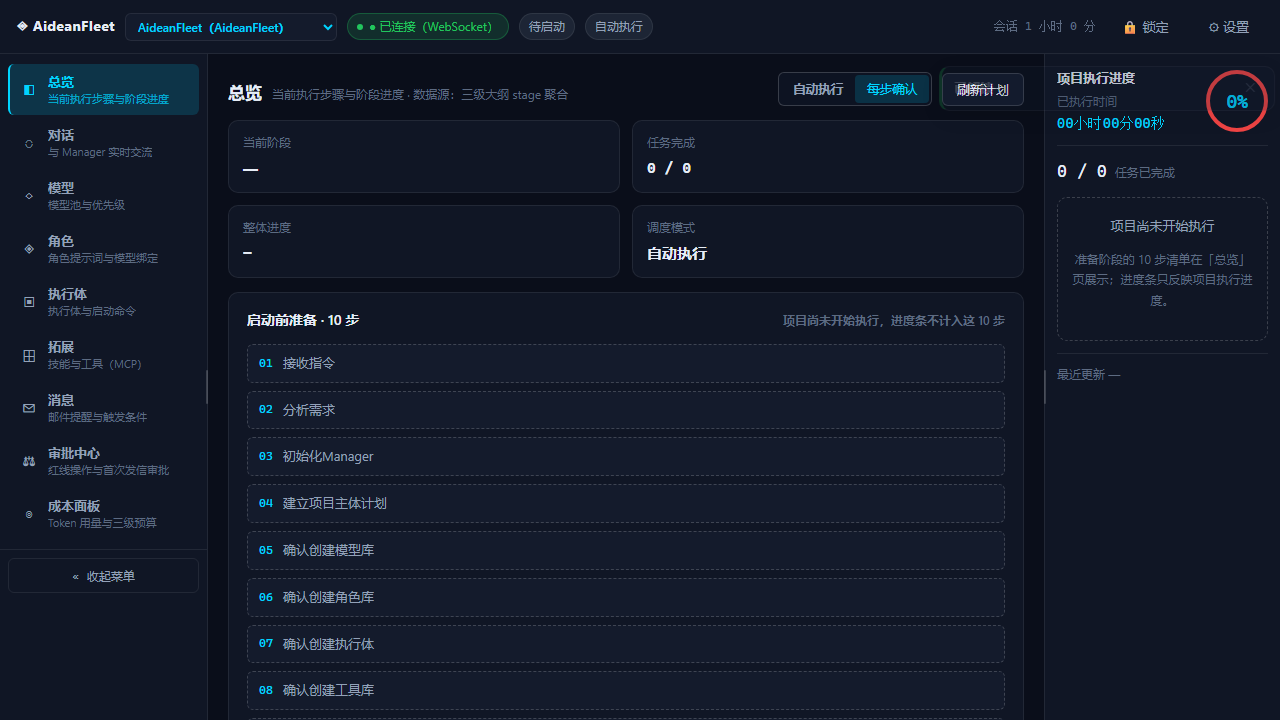
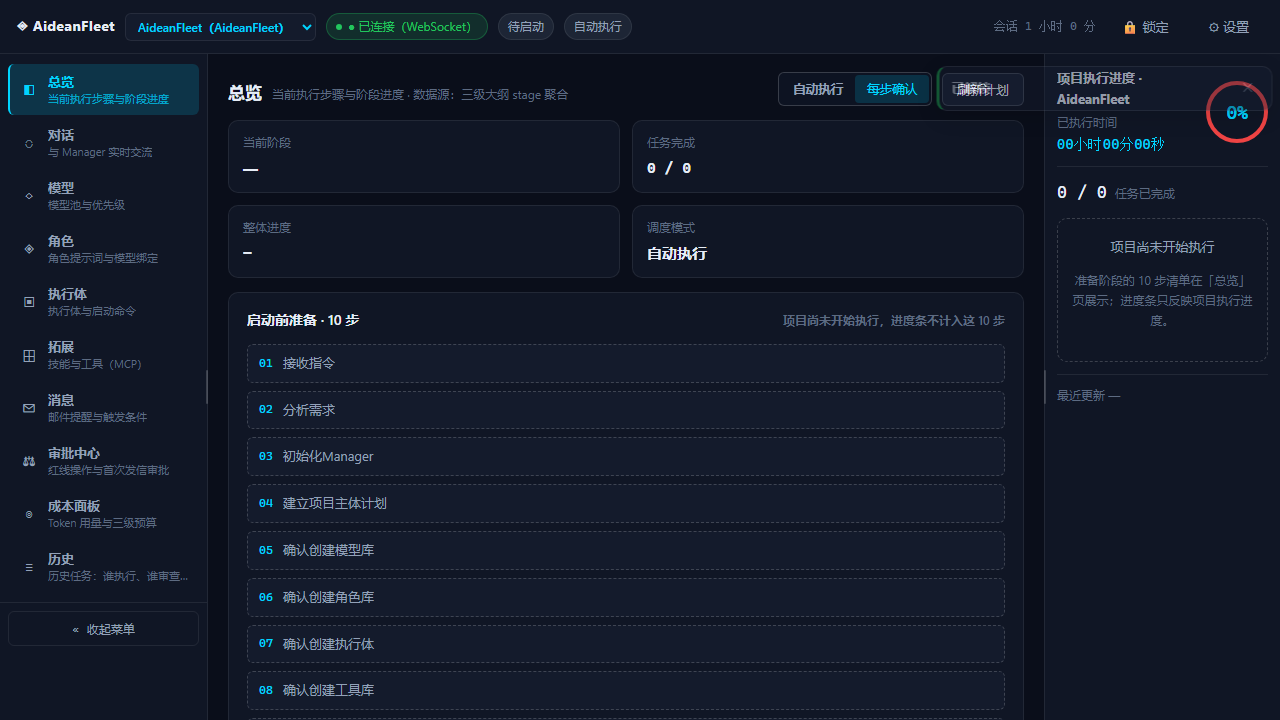
[test] e2e 基线：侧栏历史页计数 + 断网增量补拉用例修复（UI-03R）

diff --git a/tests-e2e/lib/helpers.ts b/tests-e2e/lib/helpers.ts
@@ -35,17 +35,20 @@ export const CORE_PAGES = [
   { path: '/notifications', title: '消息' },
 ] as const
 
-/** UI-03R 追加的三个二级入口（追加在 7 项之后，不参与冻结顺序） */
+/** UI-03R 追加的治理页（审批中心 / 成本面板，带数据源标注） */
 export const EXTRA_PAGES = [
   { path: '/approvals', title: '审批中心' },
   { path: '/cost', title: '成本面板' },
 ] as const
 
+/** 历史页：独立一级页（无治理数据源标注，走历史任务 API），仅参与侧栏顺序 */
+export const HISTORY_PAGE = { path: '/history', title: '历史' } as const
+
 /** 七页回归使用的冻结清单（保持兼容旧断言） */
 export const PAGES = CORE_PAGES
 
 /** 侧栏完整顺序 = 冻结 7 项 + 追加项 */
-export const ALL_PAGES = [...CORE_PAGES, ...EXTRA_PAGES]
+export const ALL_PAGES = [...CORE_PAGES, ...EXTRA_PAGES, HISTORY_PAGE]
 
 /** 解锁控制台（锁屏 → 外壳），返回后停留在 /overview */
 export async function unlock(page: Page): Promise<void> {

diff --git a/tests-e2e/specs/reconnect.spec.ts b/tests-e2e/specs/reconnect.spec.ts
@@ -39,6 +39,15 @@ test.describe('9.2 断网注入 · 重连与增量补拉', () => {
     await unlock(page)
     await expect(page.getByTestId('conn-state')).toContainText('已连接', { timeout: 25_000 })
 
+    // 先进入对话页并制造一条 chat 事件，确保断网前本地事件游标已被推进（>0），
+    // 这样恢复后的 catchUp 才是真正的「增量补拉」，而非 from-scratch 全量。
+    await page.goto('/chat')
+    const marker = `断网前事件-${Date.now()}`
+    const composer = page.locator('textarea').first()
+    await composer.fill(marker)
+    await page.getByRole('button', { name: '发送' }).click()
+    await expect(page.getByText(marker, { exact: true })).toBeVisible({ timeout: 20_000 })
+
     // 断网足够久（退避 1+2+4+8=15s 后进入轮询兜底）
     await context.setOffline(true)
     await expect

diff --git a/tests-e2e/specs/smoke.spec.ts b/tests-e2e/specs/smoke.spec.ts
@@ -1,5 +1,5 @@
 import { expect, test } from '@playwright/test'
-import { ALL_PAGES, CORE_PAGES, EXTRA_PAGES, PAGES, gotoPage, unlock } from '../lib/helpers'
+import { ALL_PAGES, CORE_PAGES, EXTRA_PAGES, HISTORY_PAGE, PAGES, gotoPage, unlock } from '../lib/helpers'
 
 /**
  * 主套件 · 门禁 / 七页回归 / UI-02 四项缺陷回归
@@ -31,6 +31,13 @@ test.describe('门禁与外壳', () => {
         EXTRA_PAGES[i].title,
       )
     }
+    // 历史页必在末尾（治理页之后追加）
+    await expect(
+      page
+        .locator('.nav .item')
+        .nth(CORE_PAGES.length + EXTRA_PAGES.length)
+        .locator('.text b'),
+    ).toHaveText(HISTORY_PAGE.title)
   })
 })
 

diff --git a/tests-e2e/specs/evidence.spec.ts b/tests-e2e/specs/evidence.spec.ts
@@ -46,9 +46,9 @@ test.describe('证据采集', () => {
     await saveShot(page, '05-cost')
   })
 
-  test('侧栏：冻结 7 项 + 追加 2 项治理入口', async ({ page }) => {
+  test('侧栏：冻结 7 项 + 追加治理入口与历史页', async ({ page }) => {
     await unlock(page)
-    await expect(page.locator('.nav .item')).toHaveCount(9)
+    await expect(page.locator('.nav .item')).toHaveCount(10)
     await saveShot(page, '06-sidenav')
   })
 
